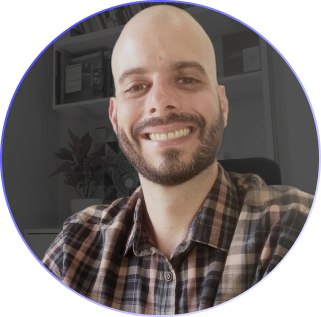
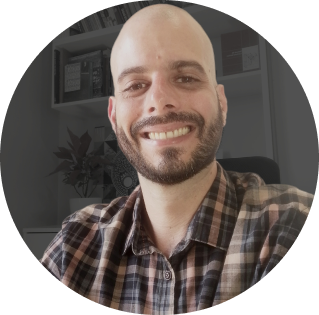
Accent color variables and photo

diff --git a/styles/style.css b/styles/style.css
@@ -4,23 +4,31 @@
 @import url('projects.css');
 
 :root {
-    --color_background: linear-gradient(90deg, rgba(20, 20, 40, 100%), rgba(0, 0, 0) 40%);
     --color_block: #20202A;
-    --color_strong: #FFFFFF;
-    --color_normal: #787878;
-    --color_accent: #6969ca;
+    --color_primary: #FFFFFF;
+    --color_secondary: #787878;
+    /* --reference-color: hsl(240, 47%, 60%); */
+    --color-accent-h: 240;
+    --color-accent-s: 47%;
+    --color-accent-l: 60%;
+    
+    --color_accent: hsl(var(--color-accent-h), var(--color-accent-s), var(--color-accent-l));
+    --color_backaccent: hsl(var(--color-accent-h), var(--color-accent-s), 15%);
+    --color_backneutral: #000000;
+    
+    --color_background: linear-gradient(90deg, var(--color_backaccent), var(--color_backneutral) 40%);
 }
 
 body {
     background: var(--color_background);
     font-family: 'Montserrat', sans-serif;
-    color: var(--color_normal);
+    color: var(--color_secondary);
     font-weight: 400;
     font-size: 1em;
 }
 
 .small {
-    color: var(--color_normal);
+    color: var(--color_secondary);
     font-size: 0.80rem;
     line-height: 1.2rem;
 }
@@ -50,11 +58,11 @@ h1,
 h2,
 h3,
 h4 {
-    color: var(--color_strong);
+    color: var(--color_primary);
 }
 
 p {
-    color: var(--color_normal);
+    color: var(--color_secondary);
     line-height: 2rem;
     text-align: justify;
 }

diff --git a/styles/cover.css b/styles/cover.css
@@ -1,5 +1,6 @@
 .cover {
     margin: 5% 5%;
+    box-sizing: border-box;
 }
 
 .topleft {
@@ -26,15 +27,15 @@
 
 .title {
     font-size: 6.5rem;
-    line-height: 8rem;
+    line-height: 6.5rem;
     text-align: right;
 }
 
 .subtitle {
     line-height: 2rem;
     text-align: right;
-    color: var(--color_normal);
-    margin-right: 1rem;
+    color: var(--color_secondary);
+    margin-right: 0.25rem;
     ;
 }
 
@@ -55,6 +56,12 @@
 .bullet {
     font-family: 'Ubuntu Condensed';
     font-size: 0.8rem;
+}
+
+.right img {
+    border: 2px solid transparent;
+    border-radius: 50rem;
+    background: linear-gradient(white, white) padding-box, linear-gradient(to right, var(--color_primary), var(--color_accent)) border-box;
 }
 
 .bottonright {

diff --git a/index.html b/index.html
@@ -21,7 +21,7 @@
                 <div class="left">
                     <div>
                         <h1 class="title">Felipe Gandra</span><br/>
-                        <h2 class="subtitle">Desenvolvedor C#</span>
+                        <h2 class="subtitle">Desenvolvedor Full Stack</span>
                     </div>
                     <div class="topics">
                         <p><spam class="bullet">&#60;/></spam> Arquiteto e Urbanista, estudante de Análise e Desenvolvimento de Sistemas.</p>

diff --git a/styles/footer.css b/styles/footer.css
@@ -3,7 +3,7 @@ footer {
     justify-content: center;
     gap: 5%;
     padding: 2%;
-    color: var(--color_strong);
+    color: var(--color_primary);
     box-sizing: border-box;
     margin: 0 3%;
 }
@@ -17,7 +17,7 @@ footer {
 }
 
 .footer__item__link {
-    color: var(--color_strong);
+    color: var(--color_primary);
     text-decoration: none;
 }
 

diff --git a/styles/projects.css b/styles/projects.css
@@ -3,6 +3,7 @@
     margin-top: 10%;
     padding: 3%;
     min-height: 85vh;
+    box-sizing: border-box;
 }
 
 .project {
